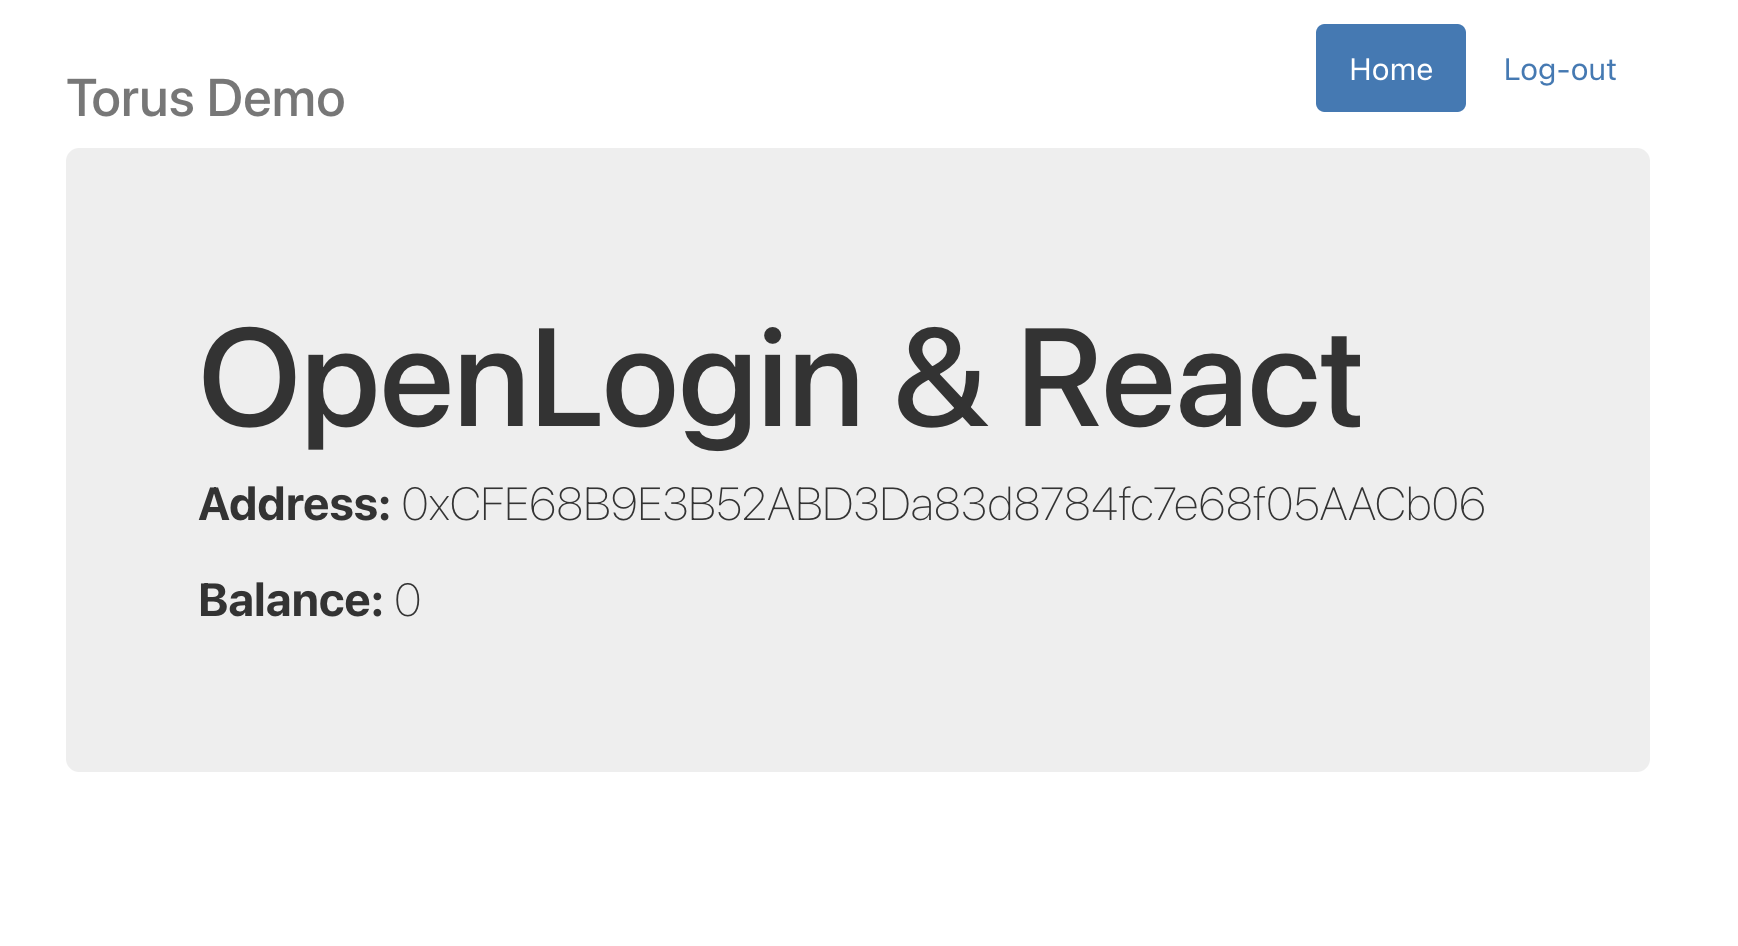
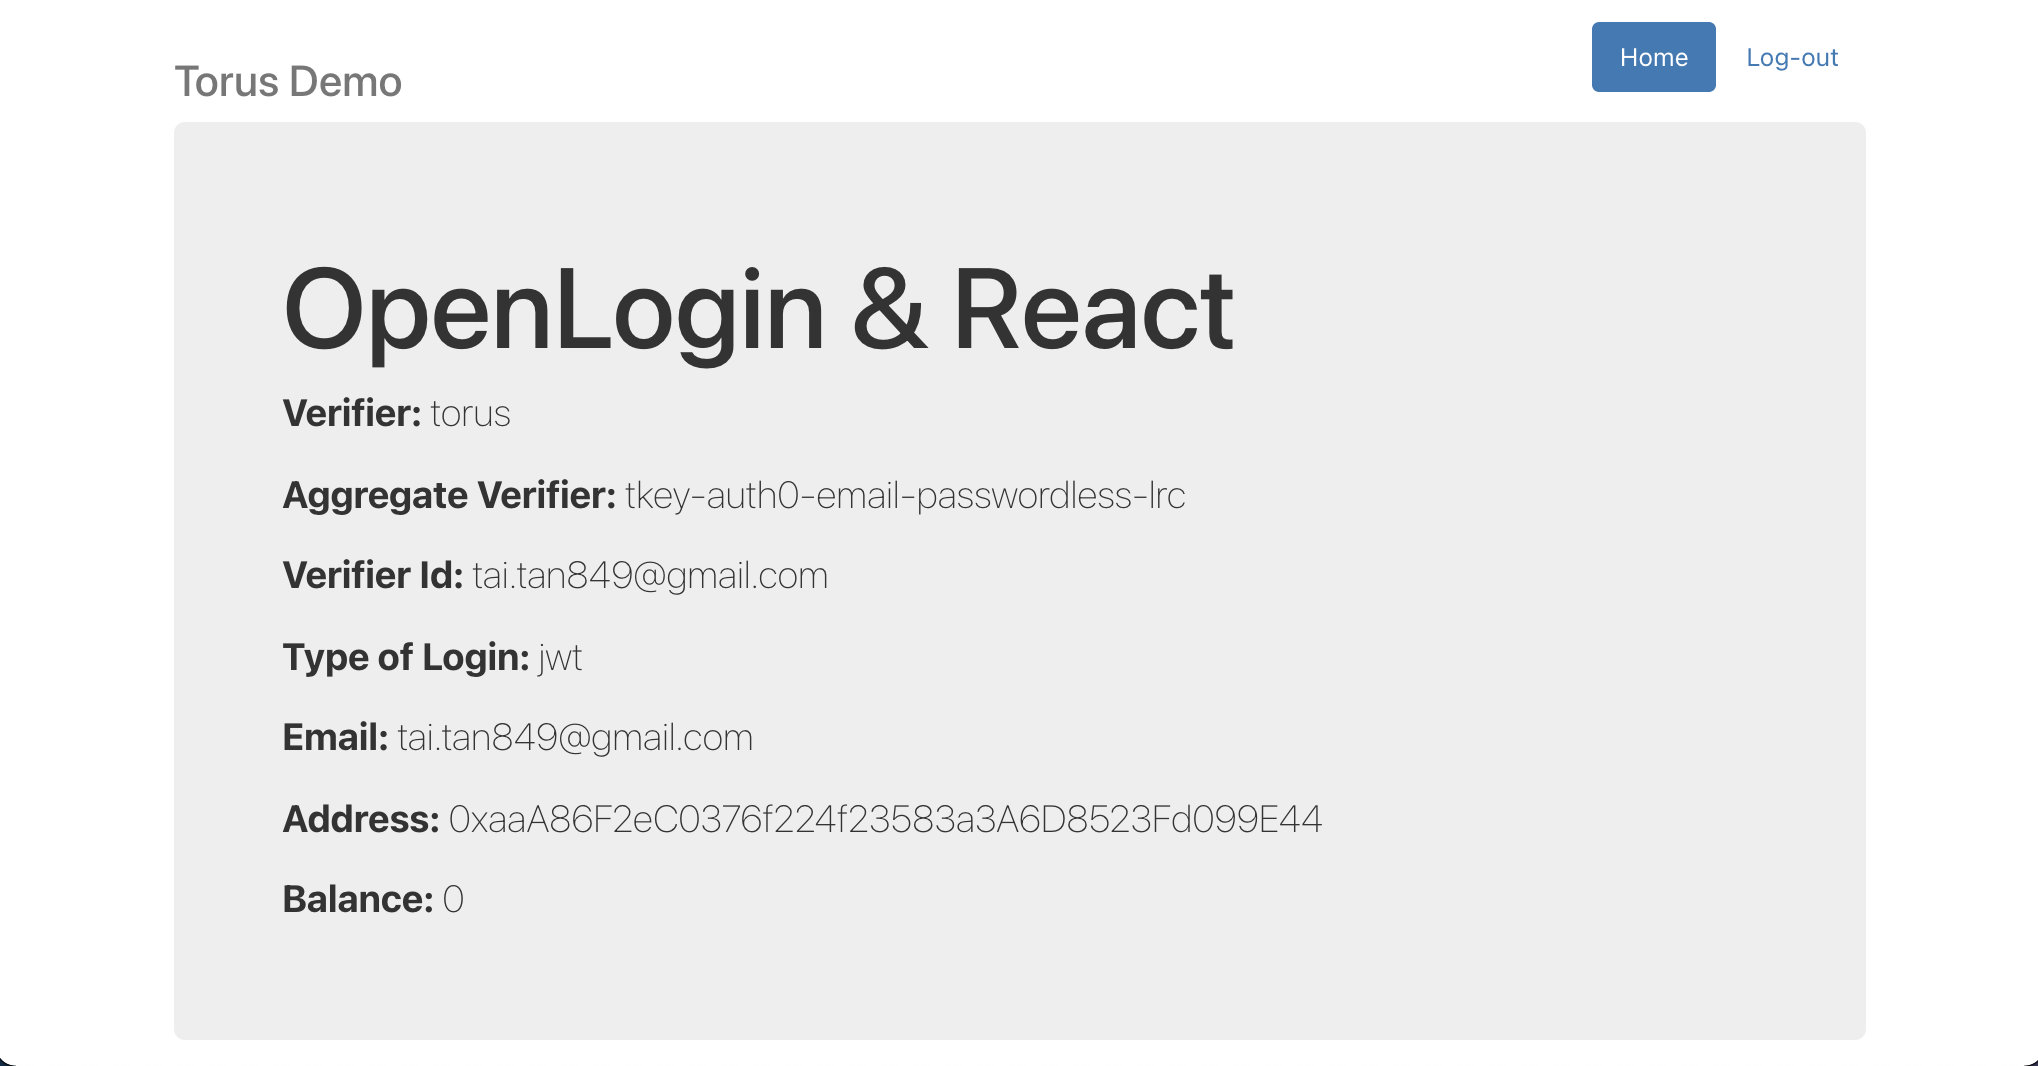
Add more user info

diff --git a/src/App.js b/src/App.js
@@ -14,6 +14,7 @@ function App() {
     const [privKey, setPrivKey] = useState();
     const [address, setAddress] = useState();
     const [balance, setBalance] = useState();
+    const [userInfo, setUserInfo] = useState();
 
     useEffect(() => {
         async function onMount() {
@@ -22,14 +23,17 @@ function App() {
             try {
                 const openlogin = new OpenLogin({
                     clientId: VERIFIER.clientId,
-                    network: "testnet"
+                    network: "testnet",
+                    redirectUrl: "http://localhost:3000/redirect",
+                    uxMode: "popup"
                 });
                 setOpenLogin(openlogin);
 
+                //sync up the state of user login session, add privKey if user logged in before
+                //inject an iframe to DOM
                 await openlogin.init();
 
-                await connectEther(openlogin.privKey);
-                setPrivKey(openlogin.privKey);
+                await connectEther(openlogin);
             } finally {
                 setLoading(false);
             }
@@ -43,25 +47,24 @@ function App() {
         setLoading(true);
         try {
             //trigger login
-            await openlogin.login({
-                loginProvider: VERIFIER.loginProvider,
-                redirectUrl: "http://localhost:3000/redirect",
-            });
-            setPrivKey(openlogin.privKey);
+            await openlogin.login();
 
-            await connectEther(openlogin.privKey);
+            await connectEther(openlogin);
         } finally {
             setLoading(false);
         }
     }
 
-    async function connectEther(privKey) {
-        if (!privKey) {
+    async function connectEther(openlogin) {
+        if (!openlogin.privKey) {
             return;
         }
-        const wallet = new ethers.Wallet(privKey, ethers.getDefaultProvider());
+        const wallet = new ethers.Wallet(openlogin.privKey, ethers.getDefaultProvider());
         const address = await wallet.getAddress();
         const balance = await wallet.getBalance();
+        const userInfo = await openlogin.getUserInfo();
+        setPrivKey(openlogin.privKey);
+        setUserInfo(userInfo);
         setAddress(address);
         setBalance(balance.toString());
     }
@@ -76,8 +79,8 @@ function App() {
         <div class="container">
             <div class="header clearfix"> <nav>
                 <ul class="nav nav-pills pull-right">
-                    <li role="presentation" class="active"><a href="#">Home</a></li>
-                    <li role="presentation">{privKey ? <a role="button" onClick={onLogout}>Log-out</a> : <span></span>}</li>
+                    <li role="presentation" class="active"><a href="/#">Home</a></li>
+                    <li role="presentation">{privKey ? <a role="button" href="/#" onClick={onLogout}>Log-out</a> : <span></span>}</li>
                 </ul>
             </nav>
                 <h3 class="text-muted">Torus Demo</h3>
@@ -88,11 +91,17 @@ function App() {
                 <p>
                     {isLoading ? <div>Loading...</div> :
                         privKey ? (<div>
+                            <p><strong>Verifier:</strong> {userInfo.verifier}</p>
+                            <p><strong>Aggregate Verifier:</strong> {userInfo.aggregateVerifier}</p>
+                            <p><strong>Verifier Id:</strong> {userInfo.verifierId}</p>
+                            <p><strong>Type of Login:</strong> {userInfo.typeOfLogin}</p>
+                            <p><strong>Email:</strong> {userInfo.email}</p>
                             <p><b>Address:</b> {address}</p>
-                            <p><b>Balance:</b> {balance}</p></div>)
+                            <p><b>Balance:</b> {balance}</p>
+                            </div>)
                             : (<p class="lead">
                                 <p>A plug n play auth suite that combines the simplicity of passwordless authentication with the security of non-custodial public key infrastructure.</p>
-                                <a class="btn btn-lg btn-success" href="#" role="button" onClick={onLogin}>Login</a>
+                                <a class="btn btn-lg btn-success" href="/#" role="button" onClick={onLogin}>Login</a>
                             </p>)
                     }
                 </p>
